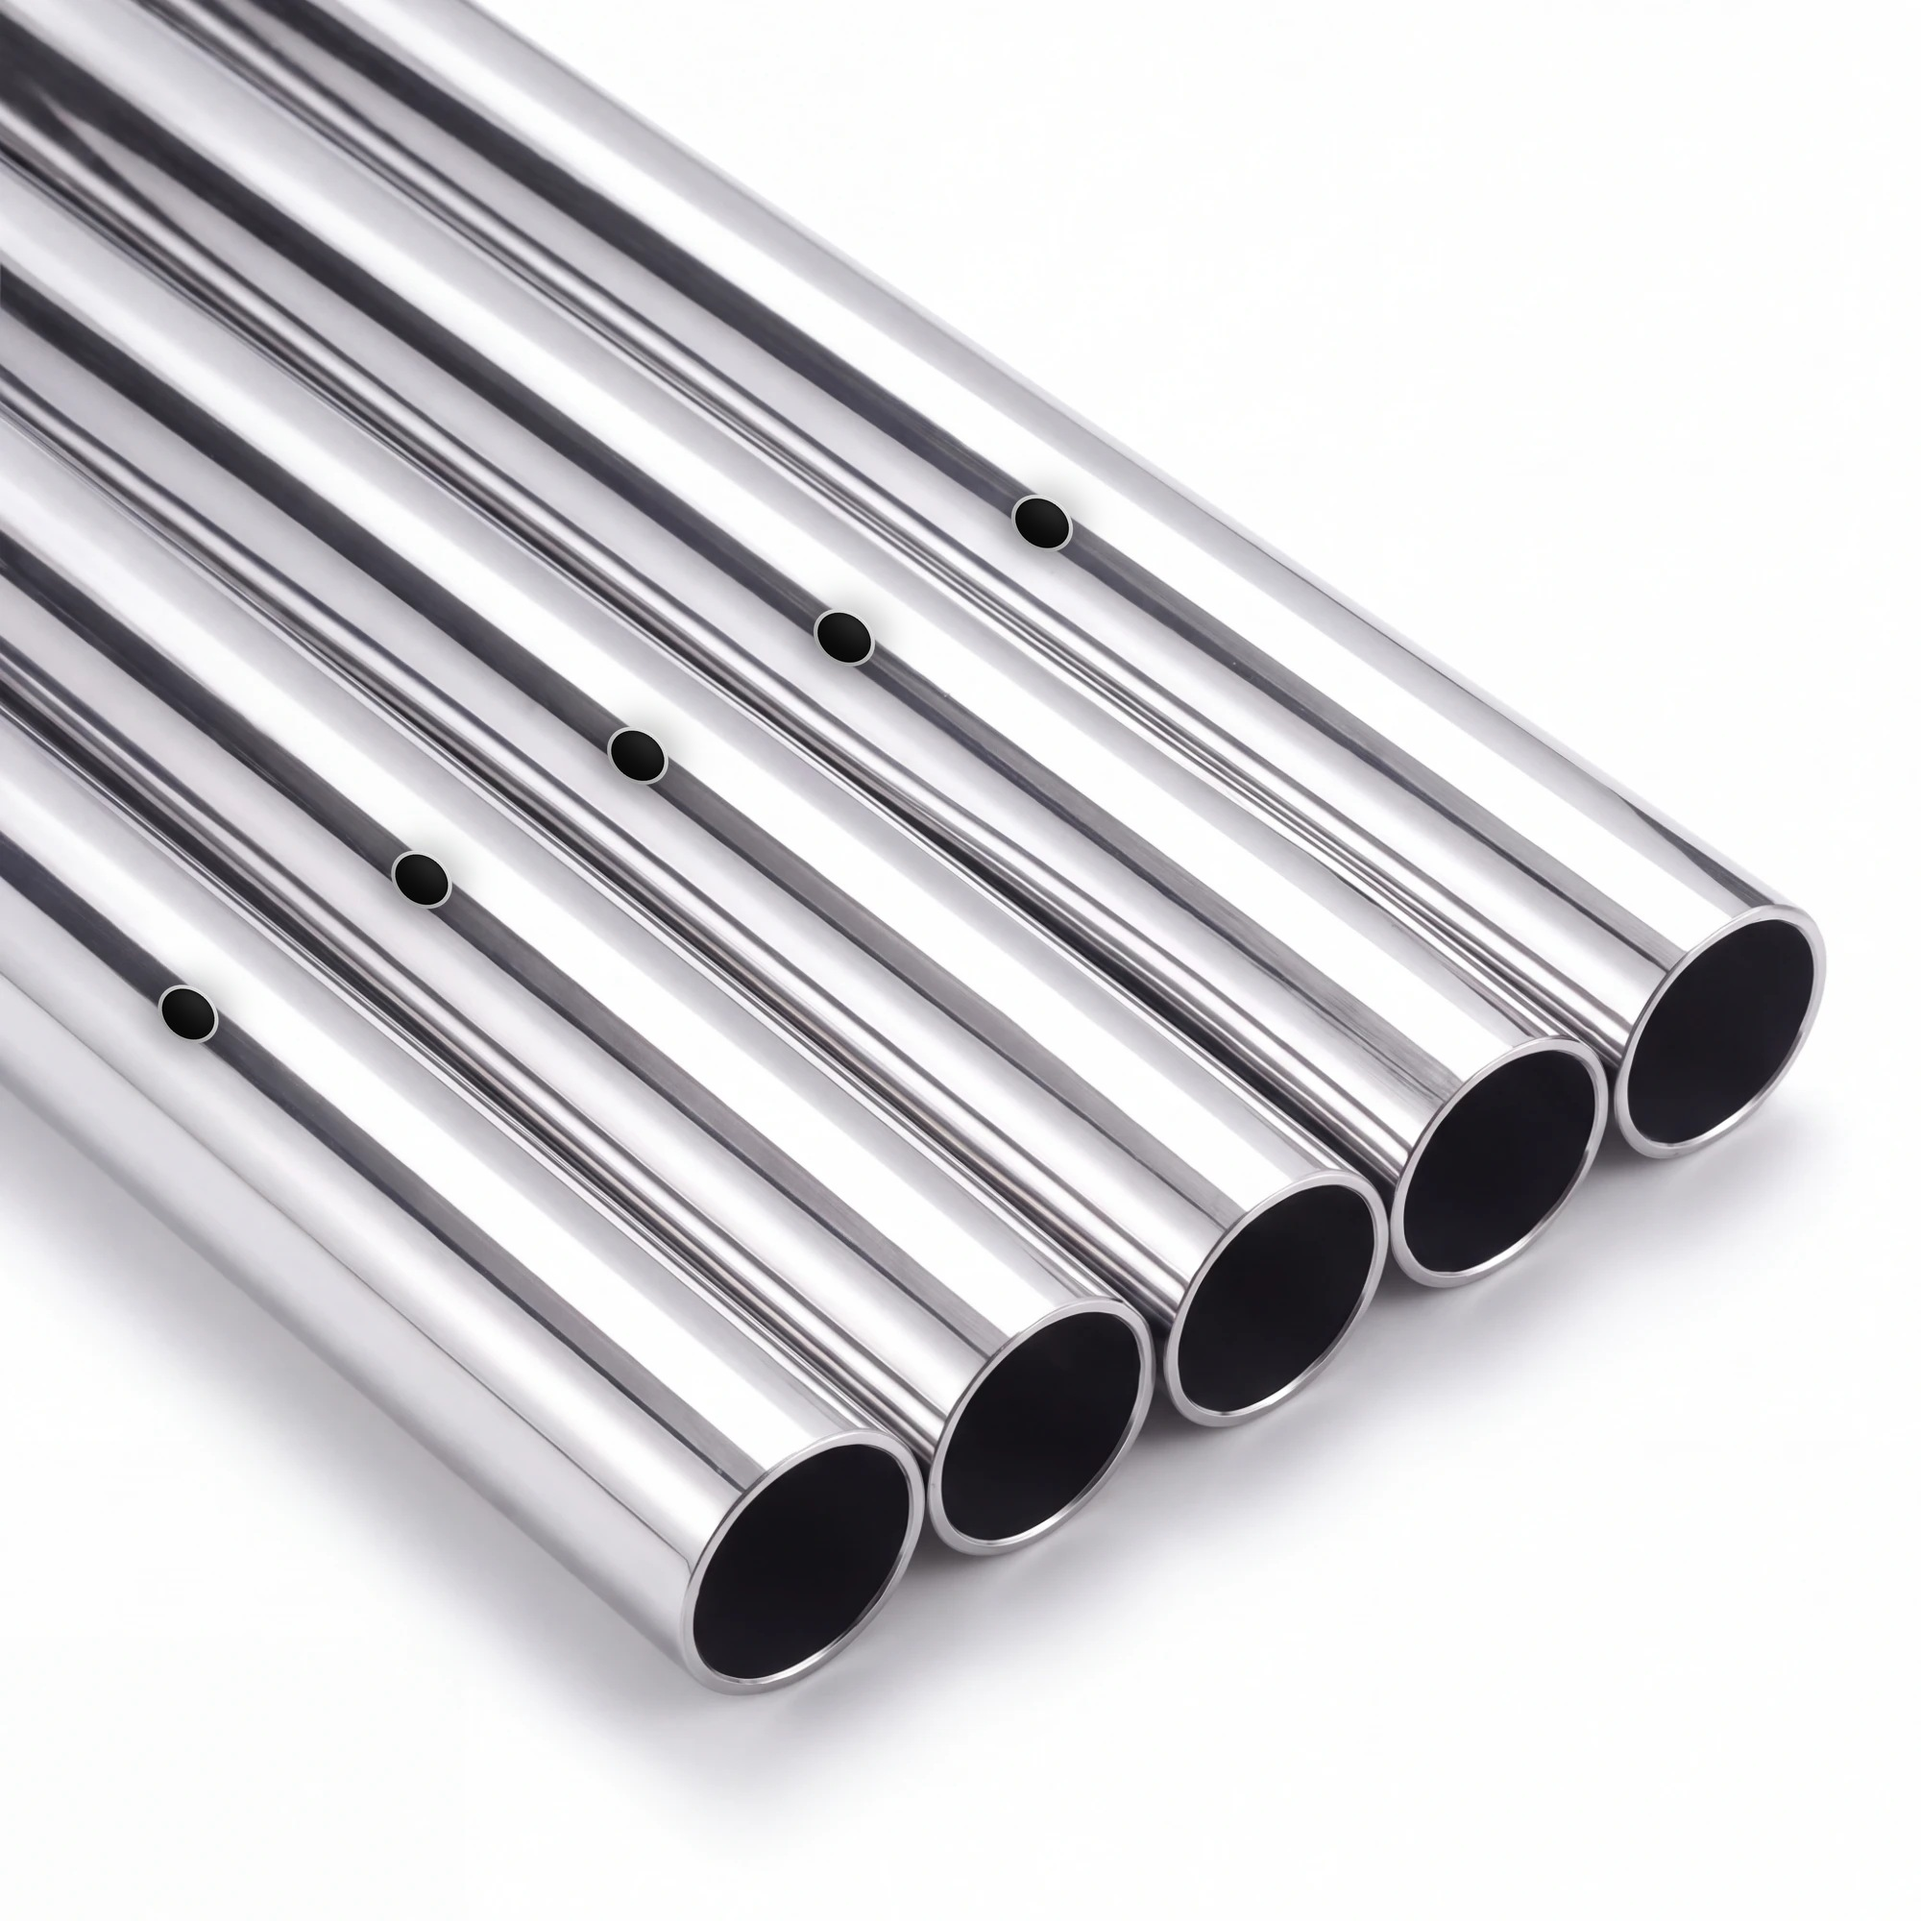
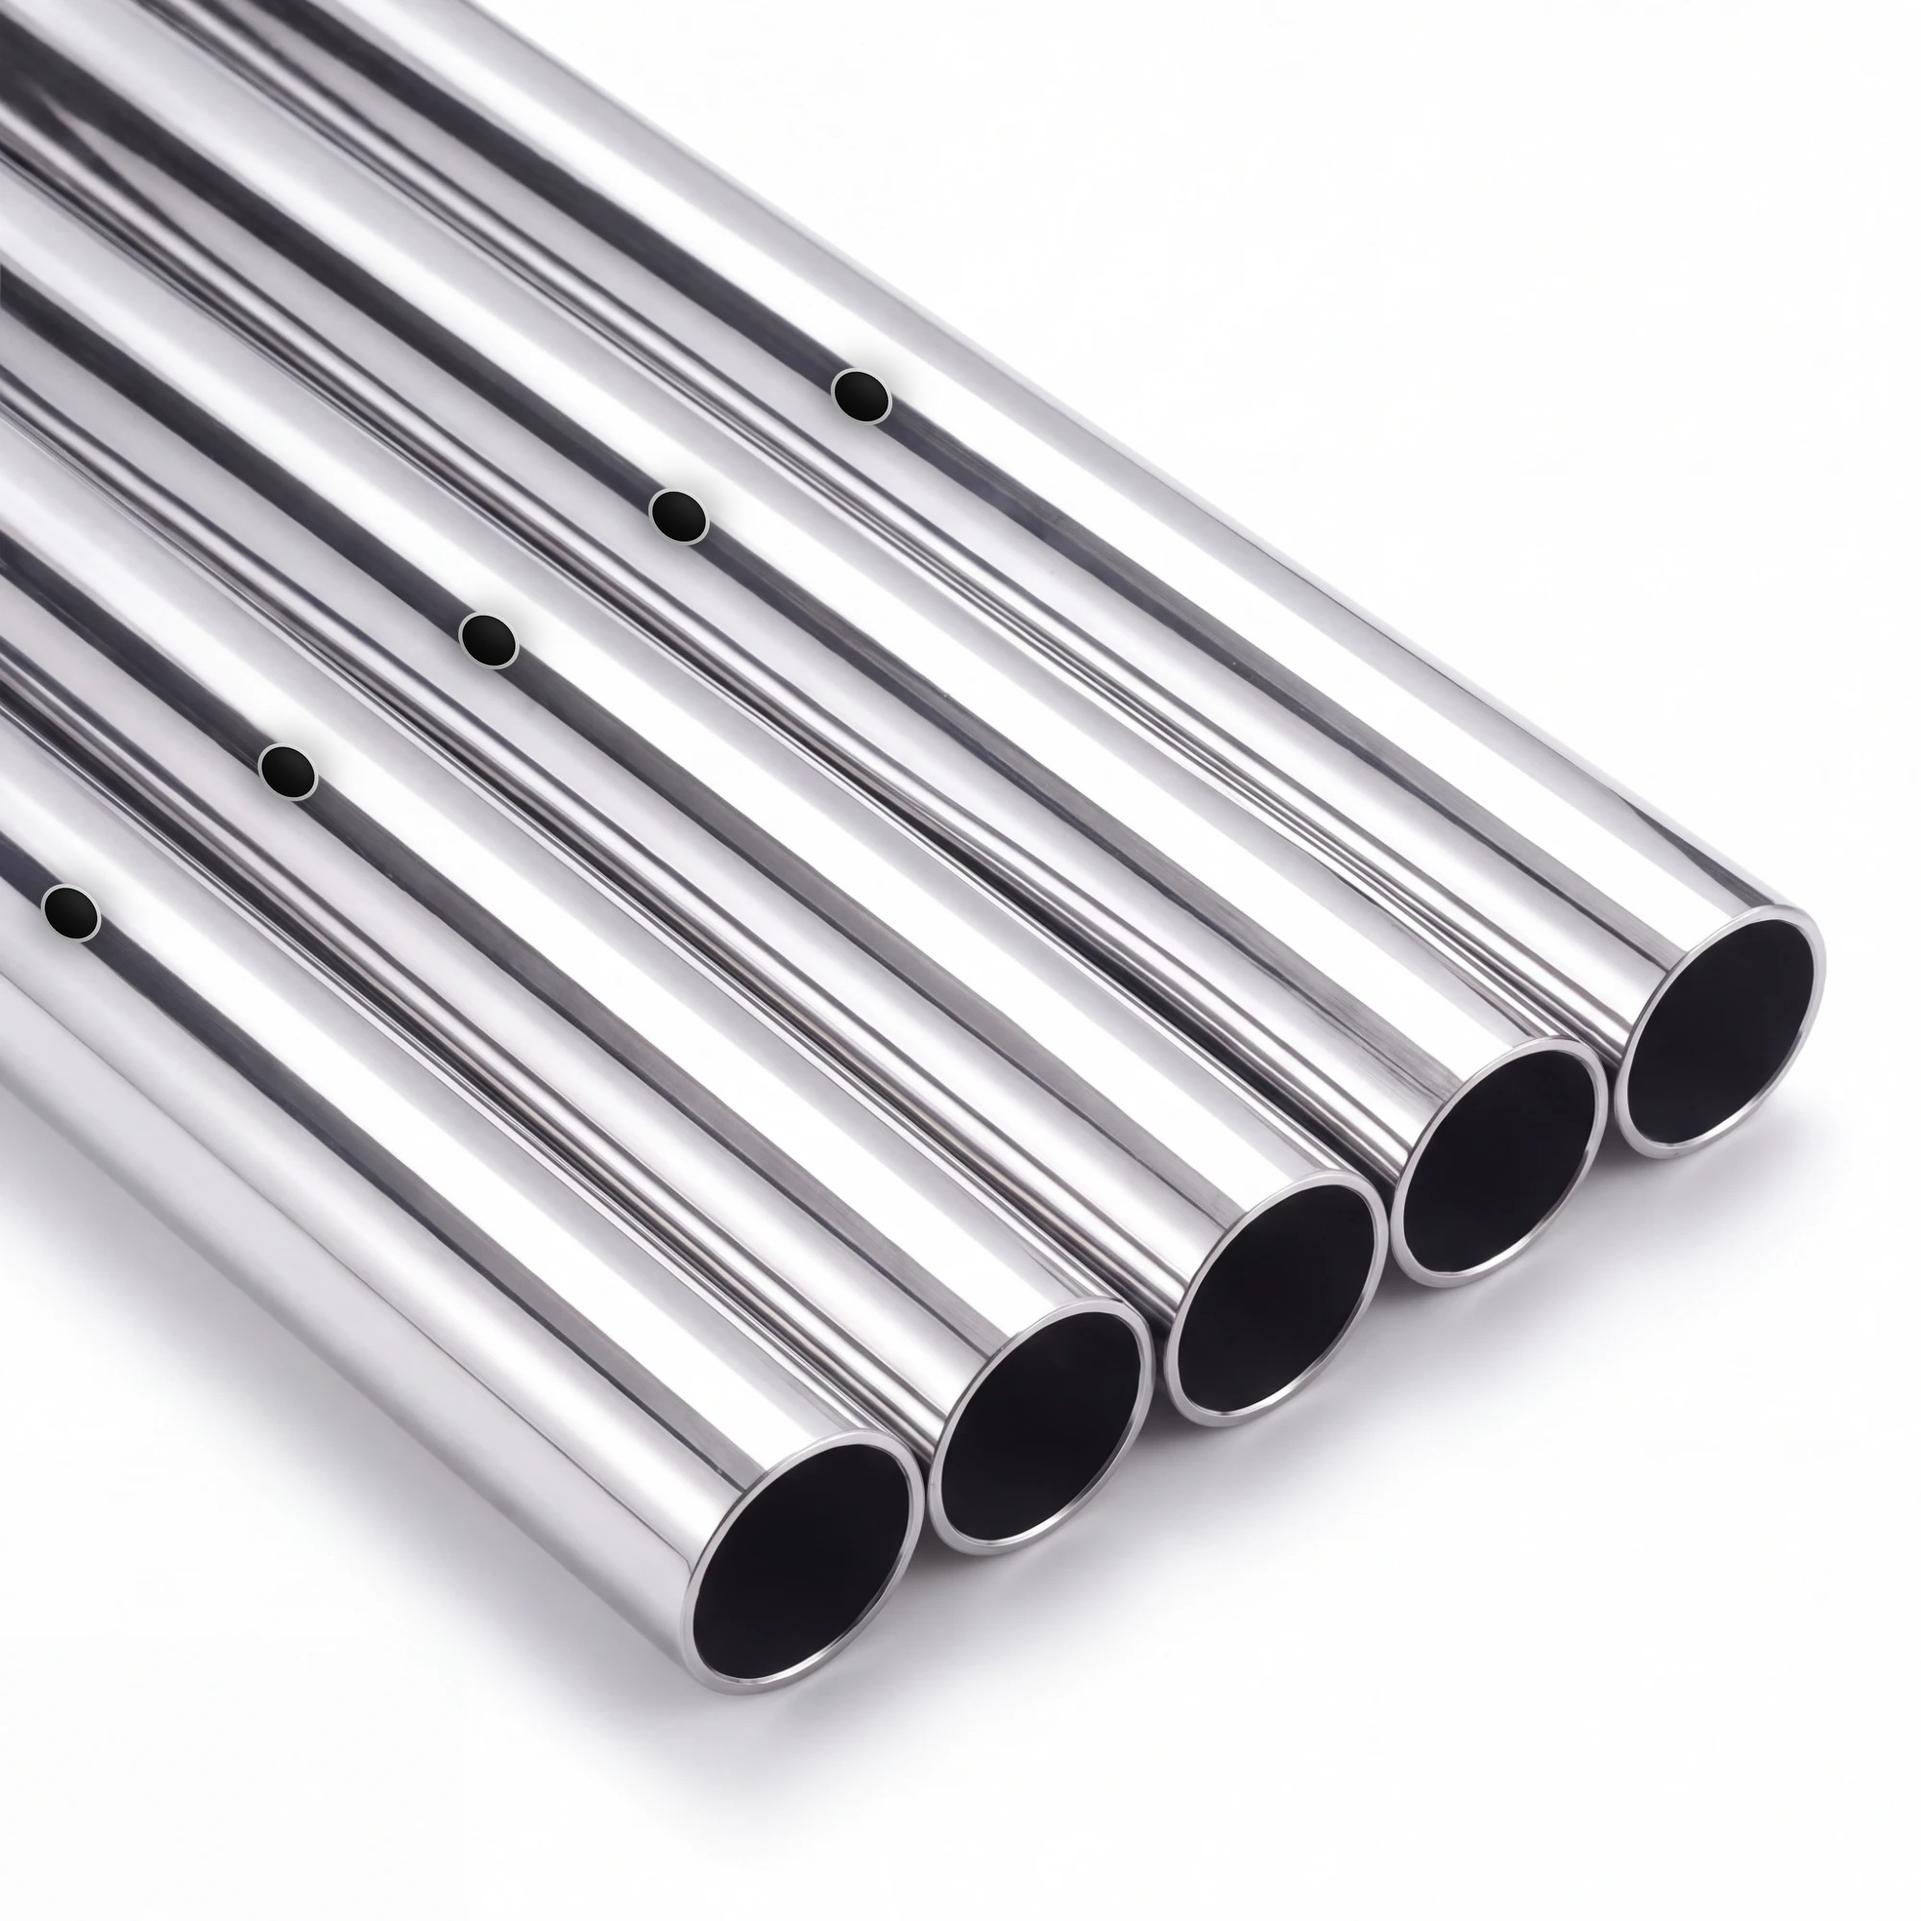
Hauptbild 75 cm: Löcher exakt auf einer Geraden, je in Rohrmitte
Claude-Session: https://claude.ai/code/session_012tQbCrsZebroYo1iFwmt5y

diff --git a/ebay-bilder/build_hauptbild_loch.py b/ebay-bilder/build_hauptbild_loch.py
@@ -47,7 +47,8 @@ def hole(cx, cy, ang):
 # Rohrmitten (gemessen): Schnitt quer durch alle Rohre; Mitte = Mitte zwischen den Rohrgrenzen
 # (rechte Silhouette, drei Fugen zwischen den Rohren). Die dunkle Reflexionsbahn liegt bei jedem Rohr gleich dicht an dieser Mitte.
 VP = (-6974.0, -5100.0)    # Fluchtpunkt der Rohrachsen (aus den Außenkanten)
-HOLES = [(196, 1056), (439, 916), (664, 787), (879, 664), (1085, 545)]
+# alle fünf Löcher liegen exakt auf einer Geraden (y = 1000 - 0,654 x) und je auf der Rohrachse (Mitte)
+HOLES = [(74, 951), (300, 804), (509, 667), (707, 538), (897, 413)]
 for (cx, cy) in HOLES:
     ang = math.degrees(math.atan2(cy - VP[1], cx - VP[0]))
     hole(cx, cy, ang + 180)
